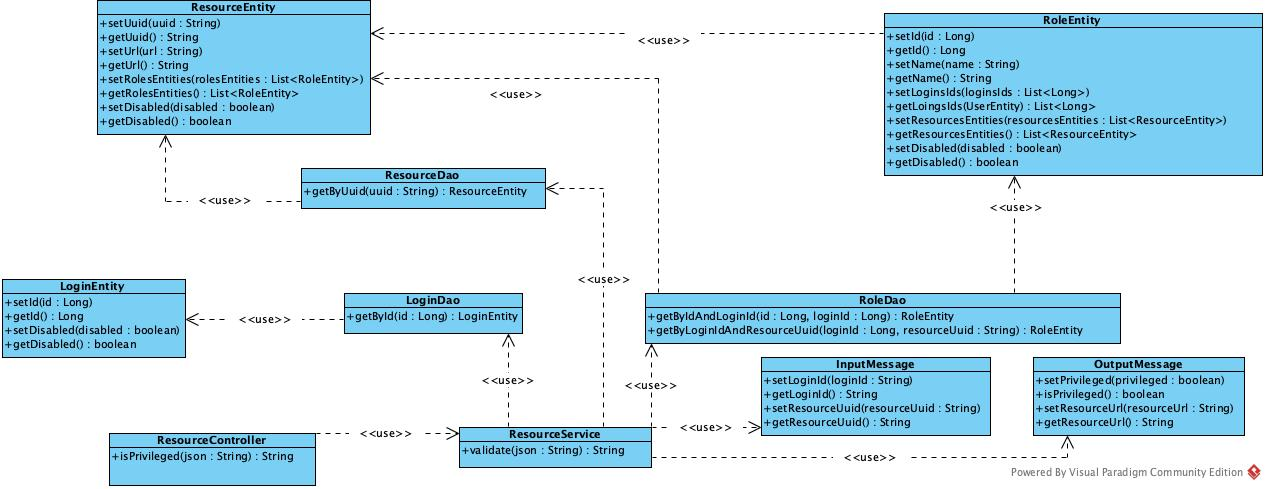
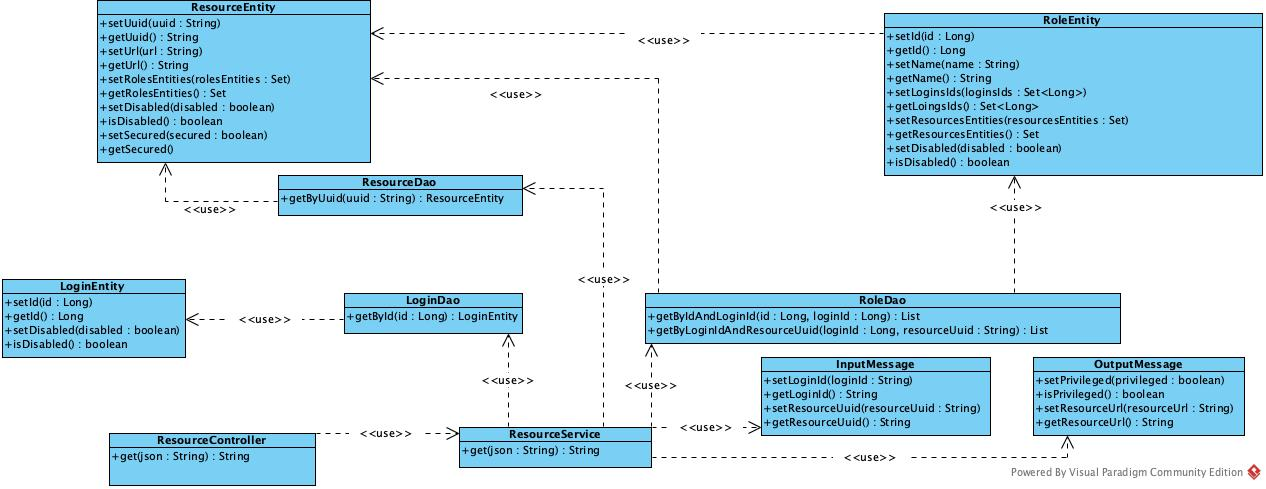
upgrade

diff --git a/src/main/java/eu/pstdio/resource_controller_api/integration/entity/RoleEntity.java b/src/main/java/eu/pstdio/resource_controller_api/integration/entity/RoleEntity.java
@@ -1,6 +1,6 @@
 package eu.pstdio.resource_controller_api.integration.entity;
 
-import java.util.List;
+import java.util.Set;
 
 /**
  *
@@ -11,10 +11,10 @@ public interface RoleEntity {
     Long getId();
     void setName(String name);
     String getName();
-    void setLoginsIds(List<Long> loginsIds);
-    List<Long> getLoginsIds();
-    void setResourcesEnitties(List<ResourceEntity> resourcesEntites);
-    List<ResourceEntity> getResourcesEntities();
+    void setLoginsIds(Set<Long> loginsIds);
+    Set<Long> getLoginsIds();
+    void setResourcesEntities(Set resourcesEntities);
+    Set getResourcesEntities();
     void setDisabled(boolean disabled);
-    boolean getDisabled();
+    boolean isDisabled();
 }

diff --git a/src/main/java/eu/pstdio/resource_controller_api/integration/entity/ResourceEntity.java b/src/main/java/eu/pstdio/resource_controller_api/integration/entity/ResourceEntity.java
@@ -1,6 +1,6 @@
 package eu.pstdio.resource_controller_api.integration.entity;
 
-import java.util.List;
+import java.util.Set;
 
 /**
  *
@@ -11,8 +11,10 @@ public interface ResourceEntity {
     String getUuid();
     void setUrl(String url);
     String getUrl();
-    void setRolesEntities(List<RoleEntity> rolesEntites);
-    List<RoleEntity> getRolesEntities();
+    void setRolesEntities(Set rolesEntities);
+    Set getRolesEntities();
     void setDisabled(boolean disabled);
-    boolean getDisabled();
+    boolean isDisabled();
+    void setSecured(boolean Secured);
+    boolean isSecured();
 }

diff --git a/src/main/java/eu/pstdio/resource_controller_api/integration/dao/RoleDao.java b/src/main/java/eu/pstdio/resource_controller_api/integration/dao/RoleDao.java
@@ -1,12 +1,12 @@
 package eu.pstdio.resource_controller_api.integration.dao;
 
-import eu.pstdio.resource_controller_api.integration.entity.RoleEntity;
+import java.util.List;
 
 /**
  *
  * @author mib
  */
 public interface RoleDao {
-    RoleEntity getByIdAndLoginId(Long id, Long loginId);
-    RoleEntity getByLoginIdAndResourceUuid(Long loginId, String resourceUuid);
+    List getByIdAndLoginId(Long id, Long loginId);
+    List getByLoginIdAndResourceUuid(Long loginId, String resourceUuid);
 }

diff --git a/src/main/java/eu/pstdio/resource_controller_api/business/message/OutputMessage.java b/src/main/java/eu/pstdio/resource_controller_api/business/message/OutputMessage.java
@@ -5,7 +5,7 @@ package eu.pstdio.resource_controller_api.business.message;
  * @author mib
  */
 public interface OutputMessage {
-    void setPrivilaged(boolean privileged);
+    void setPrivileged(boolean privileged);
     boolean isPrivileged();
     void setResourceUrl(String resourceUrl);
     String getResourceUrl();

diff --git a/src/main/java/eu/pstdio/resource_controller_api/business/message/InputMessage.java b/src/main/java/eu/pstdio/resource_controller_api/business/message/InputMessage.java
@@ -6,7 +6,7 @@ package eu.pstdio.resource_controller_api.business.message;
  */
 public interface InputMessage {
     void setLoginId(String loginId);
-    String geLoginId();
-    void setResourceUuid();
+    String getLoginId();
+    void setResourceUuid(String resourceUuid);
     String getResourceUuid();
 }

diff --git a/src/main/java/eu/pstdio/resource_controller_api/presentation/controller/ResourceController.java b/src/main/java/eu/pstdio/resource_controller_api/presentation/controller/ResourceController.java
@@ -5,5 +5,5 @@ package eu.pstdio.resource_controller_api.presentation.controller;
  * @author mib
  */
 public interface ResourceController {
-    String isPrivileged(String json);
+    String get(String json);
 }

diff --git a/src/main/java/eu/pstdio/resource_controller_api/business/service/ResourceService.java b/src/main/java/eu/pstdio/resource_controller_api/business/service/ResourceService.java
@@ -5,5 +5,5 @@ package eu.pstdio.resource_controller_api.business.service;
  * @author mib
  */
 public interface ResourceService {
-    String validate(String json);
+    String get(String json);
 }

diff --git a/src/main/java/eu/pstdio/resource_controller_api/integration/entity/LoginEntity.java b/src/main/java/eu/pstdio/resource_controller_api/integration/entity/LoginEntity.java
@@ -8,5 +8,5 @@ public interface LoginEntity {
     void setId(Long id);
     Long getId();
     void setDisabled(boolean disabled);
-    boolean getDisabled();
+    boolean isDisabled();
 }
